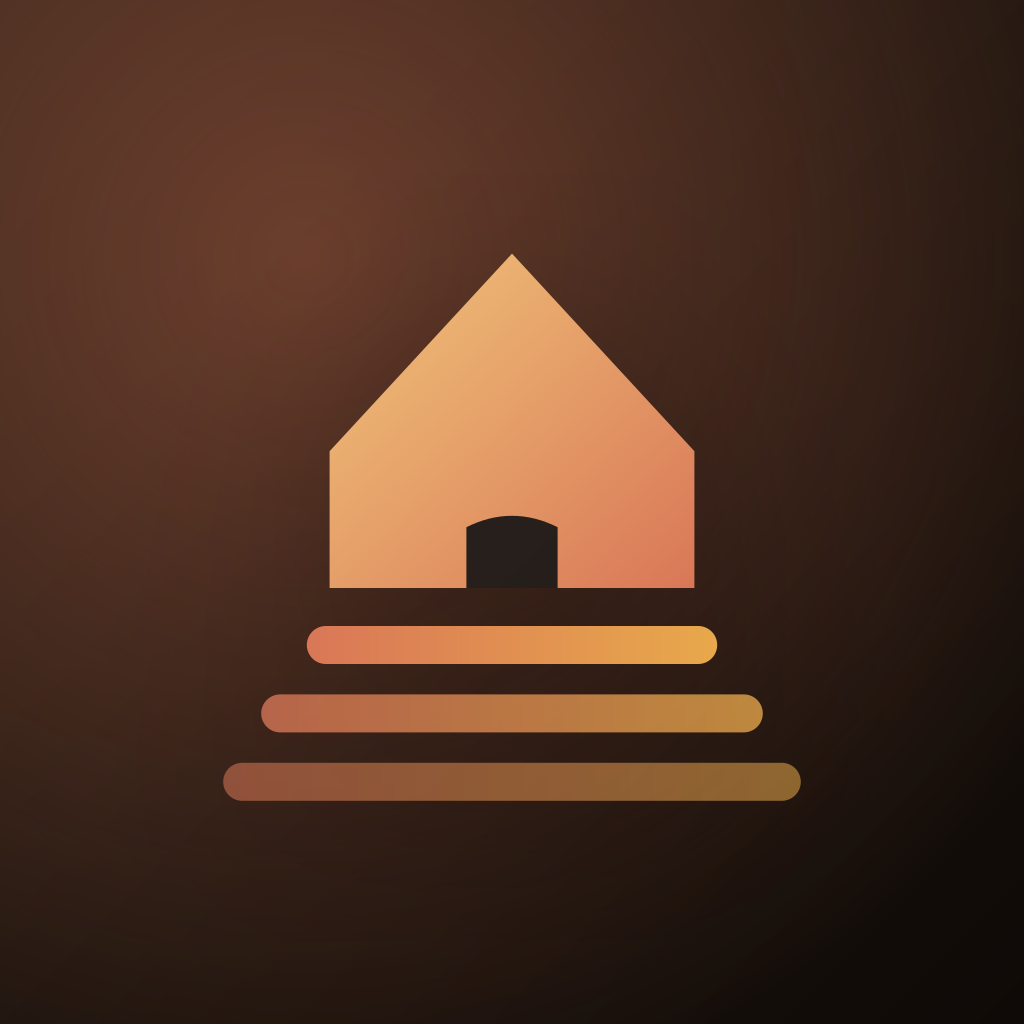
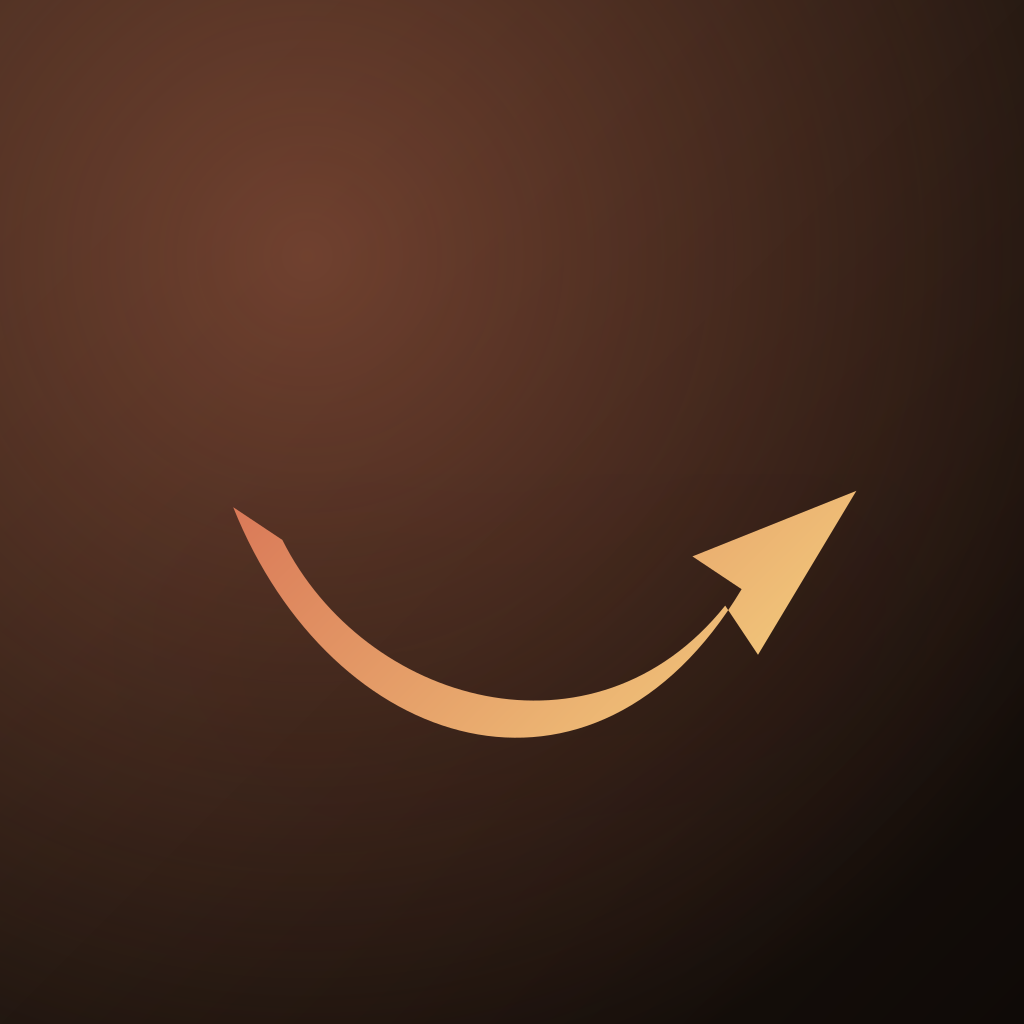
Update welcome page with Project Alpha branding and a new slogan
Rebrands the welcome page to "Project Alpha" with an Amazon-style logo, updates the slogan to "Build it, ground up.", and regenerates the app icon.

Replit-Commit-Author: Agent
Replit-Commit-Session-Id: f747b680-0ed8-42c5-9159-85cab2ddbdcd
Replit-Commit-Checkpoint-Type: full_checkpoint
Replit-Commit-Event-Id: 03bd9e99-9db1-4f01-8414-bd4e89dba113
Replit-Commit-Screenshot-Url: https://storage.googleapis.com/screenshot-production-us-central1/5478336f-3d1d-46a8-a3be-01c9064843a0/f747b680-0ed8-42c5-9159-85cab2ddbdcd/LpI9pso
Replit-Helium-Checkpoint-Created: true

Changed region(s): [[0.2188, 0.25, 0.8438, 0.7812]]

diff --git a/artifacts/mobile/components/GroundupLogo.tsx b/artifacts/mobile/components/GroundupLogo.tsx
@@ -4,130 +4,144 @@ import Svg, {
   LinearGradient,
   Stop,
   Path,
-  Rect,
+  Circle,
   G,
 } from "react-native-svg";
 
 type Props = {
   size?: number;
+  /** Primary color of the swoosh / smile arrow. */
   color?: string;
+  /** Secondary gradient color. Defaults to a warm amber. */
   accentColor?: string;
-  /**
-   * Color used for the small doorway notch. Defaults to a deep brown so it
-   * reads correctly on both light and dark backgrounds.
-   */
-  doorColor?: string;
-  /**
-   * Render the mark inside a rounded square plate (icon-style).
-   * Useful for app-icon previews or avatar contexts.
-   */
+  /** Render inside a rounded plate (icon mode). */
   plate?: boolean;
   plateColor?: string;
 };
 
 /**
- * groundUP — Foundation Mark.
+ * Project Alpha — Smile Mark.
  *
- * A pitched-roof house rising from three stratified ground layers.
- * Reads instantly as "residential, built from the ground up" and works
- * at every size from 16px favicons to 1024px app icons.
+ * An Amazon-style swoosh: a confident curved smile that lifts at the right
+ * into an arrowhead, signalling growth and momentum. Designed to read at any
+ * size from a 16px favicon to a 1024px app icon.
+ *
+ * (Filename retained to keep existing import sites working.)
  */
 export function GroundupLogo({
   size = 48,
   color = "#D97757",
   accentColor,
-  doorColor = "#2C1F16",
   plate = false,
   plateColor = "#1C1917",
 }: Props) {
   const accent = accentColor ?? "#E8A84B";
   const reactId = useId();
   const safeId = reactId.replace(/[^a-zA-Z0-9-_]/g, "");
-  const roofGrad = `gu-roof-${safeId}`;
-  const strataGrad = `gu-strata-${safeId}`;
+  const gradId = `pa-grad-${safeId}`;
 
-  // Geometry on a 100x100 canvas, with generous padding so the mark stays
-  // crisp inside any container (including a rounded-square plate).
-  // House: pentagon with pitched roof.
-  // Roof peak (cx, 18) -> eaves (28, 44)/(72, 44) -> base (28, 60)/(72, 60).
-  const housePath =
-    "M 50 16 " +
-    "L 74 42 " +
-    "L 74 60 " +
-    "L 26 60 " +
-    "L 26 42 Z";
-
-  // A small doorway notch cut from the bottom of the house, hinting at
-  // a residential entrance without becoming literal at small sizes.
-  const doorPath =
-    "M 44 60 " +
-    "L 44 52 " +
-    "Q 50 49 56 52 " +
-    "L 56 60 Z";
-
-  // Three stratified ground layers, progressively wider and more transparent
-  // at the bottom — like a building section through soil.
-  // Slightly thicker bars + higher minimum opacity so the bottom stratum
-  // remains visible at small sizes (e.g. 28px tab/header use).
-  const strata = [
-    { y: 65, w: 54, h: 5, op: 1.0 },
-    { y: 74, w: 66, h: 5, op: 0.78 },
-    { y: 83, w: 76, h: 5, op: 0.55 },
-  ];
+  // ── Geometry on a 100×100 canvas ─────────────────────────────────────────
+  // The smile is a single thick stroke from the lower-left up to the
+  // lower-right, where it terminates in an upward-pointing arrowhead.
+  // We model it as a filled shape (stroke + arrow as one Path) so it can
+  // carry a gradient and remain crisp at any scale.
+  //
+  // Anchor points:
+  //   start  ≈ (18, 50)
+  //   peak   ≈ (50, 78)   (lowest point of the smile)
+  //   tip    ≈ (84, 48)   (where the arrow points)
+  //
+  // We construct two cubic curves (top edge and bottom edge of the smile)
+  // and wrap them around the arrowhead.
+  const smilePath = [
+    // Move to upper-left start of the stroke
+    "M 16 46",
+    // Top edge of smile: curve down to the right side, ending just before
+    // the arrowhead base.
+    "C 28 76, 60 86, 78 56",
+    // Step out to the arrowhead's outer (upper) tip.
+    "L 72 52",
+    // Outer arrow flare → arrow tip.
+    "L 92 44",
+    "L 80 64",
+    "L 76 58",
+    // Bottom edge of smile: curve back to the starting point.
+    "C 60 78, 32 70, 22 50",
+    "Z",
+  ].join(" ");
 
   const Mark = (
     <G>
-      {/* House — terracotta gradient pentagon */}
-      <Path d={housePath} fill={`url(#${roofGrad})`} />
-      {/* Door — deep brown so it reads on any background */}
-      <Path d={doorPath} fill={plate ? plateColor : doorColor} opacity={0.95} />
-
-      {/* Stratified ground beneath the house */}
-      {strata.map((s, i) => (
-        <Rect
-          key={i}
-          x={50 - s.w / 2}
-          y={s.y}
-          width={s.w}
-          height={s.h}
-          rx={2.5}
-          ry={2.5}
-          fill={`url(#${strataGrad})`}
-          opacity={s.op}
-        />
-      ))}
+      <Path d={smilePath} fill={`url(#${gradId})`} />
     </G>
   );
 
   return (
     <Svg width={size} height={size} viewBox="0 0 100 100">
       <Defs>
-        <LinearGradient id={roofGrad} x1="0" y1="0" x2="1" y2="1">
-          <Stop offset="0" stopColor={accent} stopOpacity="1" />
-          <Stop offset="1" stopColor={color} stopOpacity="1" />
-        </LinearGradient>
-        <LinearGradient id={strataGrad} x1="0" y1="0" x2="1" y2="0">
-          <Stop offset="0" stopColor={color} stopOpacity="0.95" />
-          <Stop offset="1" stopColor={accent} stopOpacity="0.95" />
+        <LinearGradient id={gradId} x1="0" y1="0" x2="1" y2="0.4">
+          <Stop offset="0" stopColor={color} stopOpacity="1" />
+          <Stop offset="1" stopColor={accent} stopOpacity="1" />
         </LinearGradient>
       </Defs>
 
       {plate ? (
         <>
-          <Rect
-            x="2"
-            y="2"
-            width="96"
-            height="96"
-            rx="22"
-            ry="22"
-            fill={plateColor}
-          />
+          <Circle cx="50" cy="50" r="48" fill={plateColor} />
           {Mark}
         </>
       ) : (
         Mark
       )}
+    </Svg>
+  );
+}
+
+/**
+ * SmileSwoosh — the swoosh-only mark stretched horizontally.
+ *
+ * Used underneath the "project alpha" wordmark on the welcome screen so the
+ * arrow visually spans from "p" to the trailing "a", in the spirit of
+ * Amazon's a-to-z smile.
+ */
+export function SmileSwoosh({
+  width = 240,
+  color = "#D97757",
+  accentColor,
+}: {
+  width?: number;
+  color?: string;
+  accentColor?: string;
+}) {
+  const accent = accentColor ?? "#E8A84B";
+  const reactId = useId();
+  const safeId = reactId.replace(/[^a-zA-Z0-9-_]/g, "");
+  const gradId = `pa-swoosh-${safeId}`;
+
+  // Horizontal swoosh on a 200×40 viewBox.
+  // Smile dips in the middle and lifts into an arrowhead at the right.
+  const path = [
+    "M 6 10",
+    "C 40 36, 130 38, 168 16",
+    "L 158 8",
+    "L 196 4",
+    "L 178 36",
+    "L 168 28",
+    "C 130 48, 36 46, 4 18",
+    "Z",
+  ].join(" ");
+
+  const height = (width * 40) / 200;
+
+  return (
+    <Svg width={width} height={height} viewBox="0 0 200 40">
+      <Defs>
+        <LinearGradient id={gradId} x1="0" y1="0.5" x2="1" y2="0.5">
+          <Stop offset="0" stopColor={color} stopOpacity="1" />
+          <Stop offset="1" stopColor={accent} stopOpacity="1" />
+        </LinearGradient>
+      </Defs>
+      <Path d={path} fill={`url(#${gradId})`} />
     </Svg>
   );
 }

diff --git a/artifacts/mobile/app/(auth)/welcome.tsx b/artifacts/mobile/app/(auth)/welcome.tsx
@@ -17,7 +17,7 @@ import { LinearGradient } from "expo-linear-gradient";
 import { useVideoPlayer, VideoView } from "expo-video";
 import { Asset } from "expo-asset";
 import { StatusBar } from "expo-status-bar";
-import { GroundupLogo } from "@/components/GroundupLogo";
+import { SmileSwoosh } from "@/components/GroundupLogo";
 
 const HERO_VIDEO = require("../../assets/videos/welcome-hero.mp4");
 const HERO_POSTER = require("../../assets/videos/welcome-hero-poster.jpg");
@@ -177,18 +177,18 @@ export default function WelcomeScreen() {
         style={bleed}
       />
 
-      {/* ── Brand block: logo + ambient glow + wordmark ── */}
+      {/* ── Brand block: Amazon-style wordmark with smile swoosh ── */}
       <Animated.View
         style={[
           styles.brandBlock,
           {
-            top: insets.top + 56,
+            top: insets.top + 72,
             opacity: fadeBrand,
             transform: [{ translateY: lift }],
           },
         ]}
       >
-        <View style={styles.logoWrap}>
+        <View style={styles.wordmarkWrap}>
           <Animated.View
             pointerEvents="none"
             style={[
@@ -196,12 +196,13 @@ export default function WelcomeScreen() {
               { opacity: glowOpacity, transform: [{ scale: glowScale }] },
             ]}
           />
-          <GroundupLogo size={68} color="#D97757" accentColor="#E8C887" />
+          <Text style={styles.wordmark}>
+            project<Text style={styles.wordmarkAlpha}> alpha</Text>
+          </Text>
+          <View style={styles.swooshWrap}>
+            <SmileSwoosh width={232} color="#D97757" accentColor="#E8C887" />
+          </View>
         </View>
-
-        <Text style={styles.wordmark}>
-          ground<Text style={styles.wordmarkUp}>UP</Text>
-        </Text>
 
         <View style={styles.eyebrowRow}>
           <View style={styles.eyebrowDot} />
@@ -223,12 +224,12 @@ export default function WelcomeScreen() {
         ]}
       >
         <Text style={styles.headline}>
-          Land. Numbers.{"\n"}
-          <Text style={styles.headlineEm}>Built from the ground up.</Text>
+          Build it,{" "}
+          <Text style={styles.headlineEm}>ground up.</Text>
         </Text>
         <View style={styles.headlineRule} />
         <Text style={styles.subhead}>
-          Instant feasibility, planning overlays and ROI for any NZ site.
+          Instant feasibility for any New Zealand site.
         </Text>
       </Animated.View>
 
@@ -275,40 +276,42 @@ const styles = StyleSheet.create({
     left: 0,
     right: 0,
     alignItems: "center",
-    gap: 18,
+    gap: 22,
   },
-  logoWrap: {
-    width: 96,
-    height: 96,
+  wordmarkWrap: {
     alignItems: "center",
     justifyContent: "center",
+    paddingHorizontal: 8,
   },
   logoGlow: {
     position: "absolute",
-    width: 140,
-    height: 140,
-    borderRadius: 70,
+    width: 260,
+    height: 160,
+    borderRadius: 130,
     backgroundColor: "#D97757",
-    // soft halo via shadow on iOS, plain bg blur on web
     shadowColor: "#D97757",
     shadowOffset: { width: 0, height: 0 },
     shadowOpacity: 0.9,
-    shadowRadius: 40,
+    shadowRadius: 50,
   },
   wordmark: {
-    fontFamily: "Fraunces_500Medium",
-    fontSize: 40,
-    lineHeight: 44,
-    letterSpacing: -1.4,
+    fontFamily: "DM_Sans_700Bold",
+    fontSize: 44,
+    lineHeight: 48,
+    letterSpacing: -1.6,
     color: "#FBF6EC",
-    textShadowColor: "rgba(0,0,0,0.5)",
+    textShadowColor: "rgba(0,0,0,0.55)",
     textShadowOffset: { width: 0, height: 1 },
-    textShadowRadius: 8,
+    textShadowRadius: 10,
   },
-  wordmarkUp: {
-    fontFamily: "Fraunces_700Bold",
-    color: "#E8C887",
-    letterSpacing: -0.6,
+  wordmarkAlpha: {
+    fontFamily: "DM_Sans_700Bold",
+    color: "#FBF6EC",
+    letterSpacing: -1.6,
+  },
+  swooshWrap: {
+    marginTop: 6,
+    alignItems: "center",
   },
   eyebrowRow: {
     flexDirection: "row",
